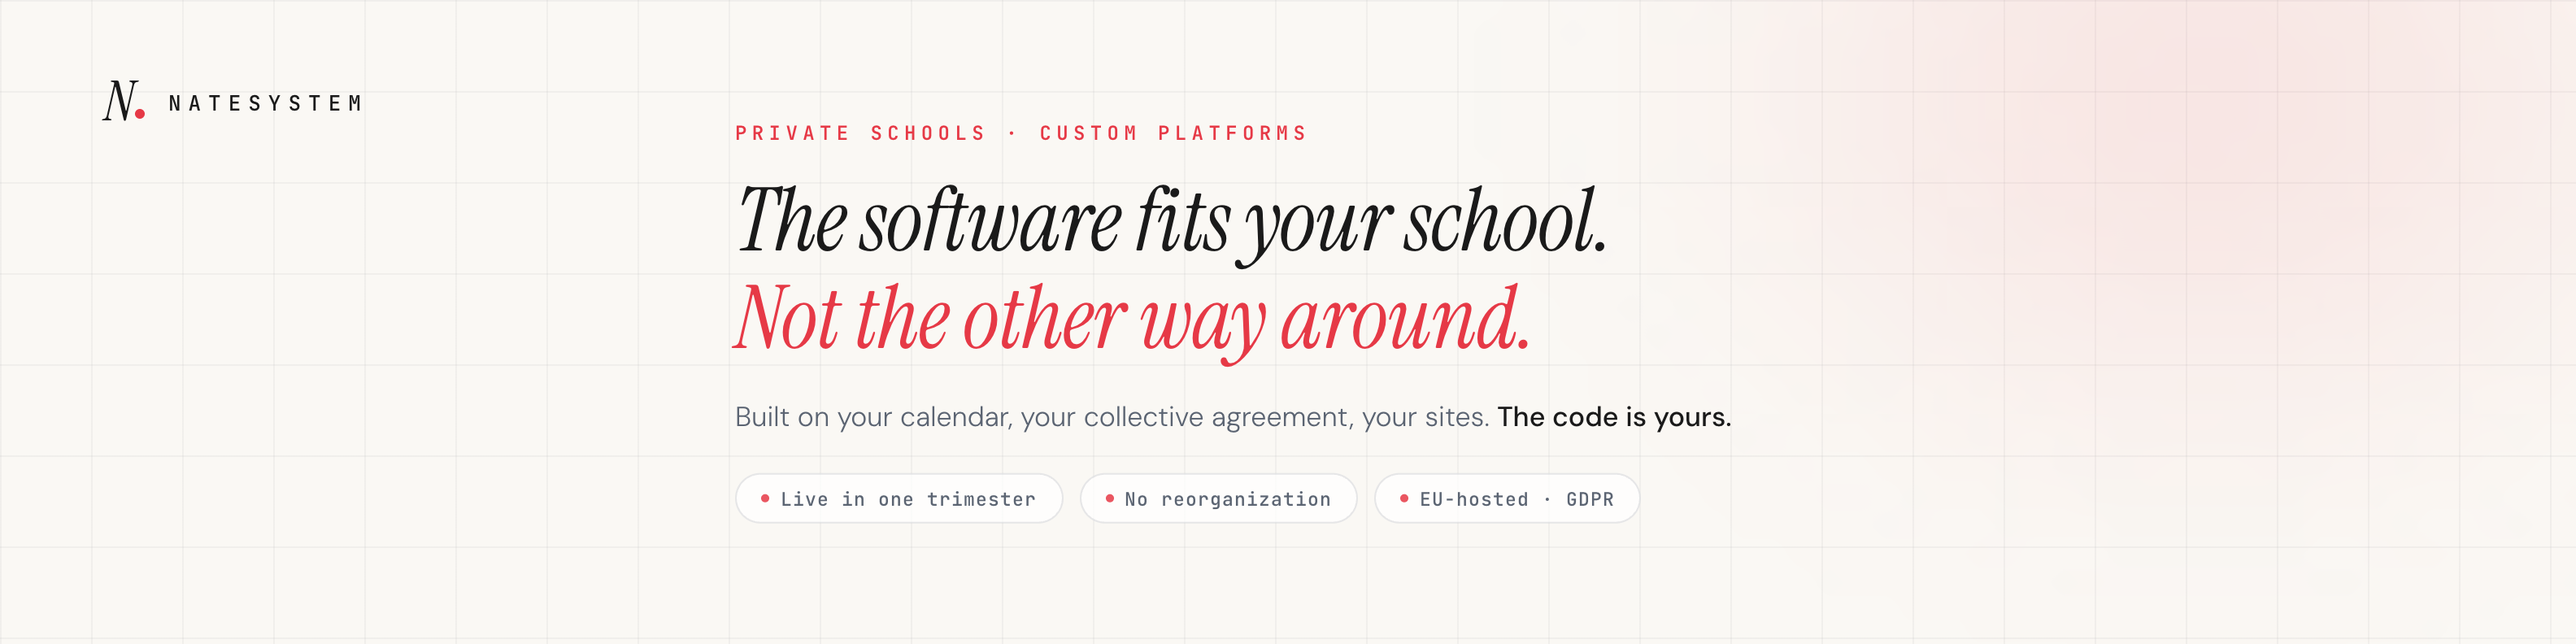
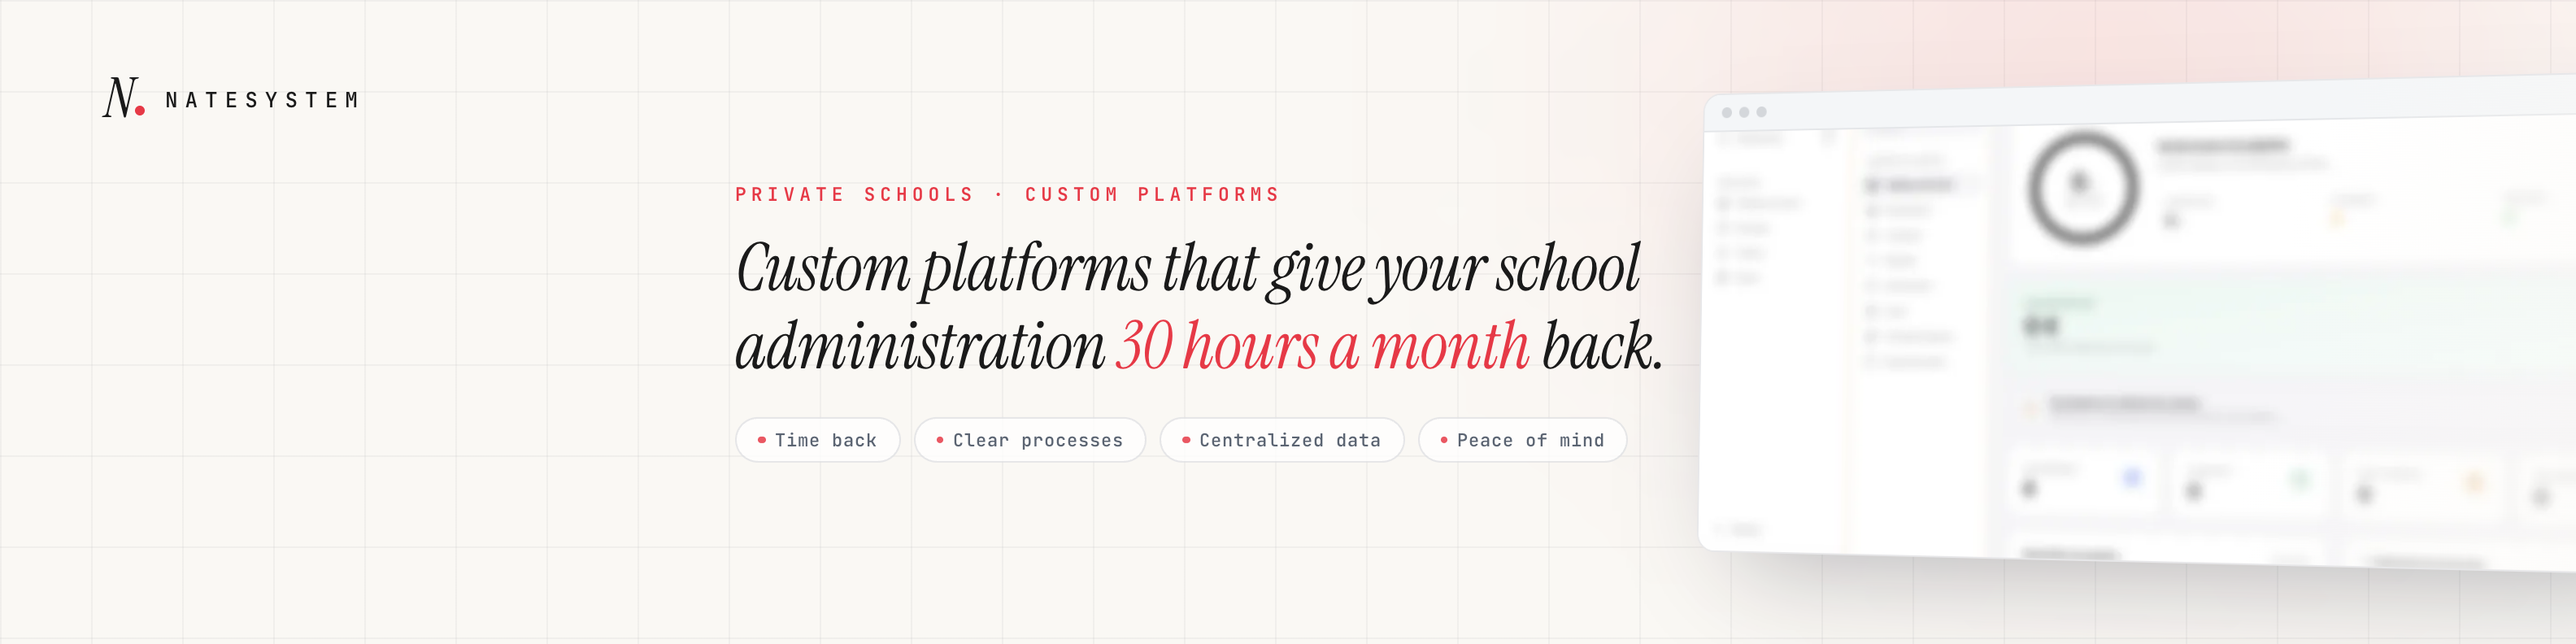
La couverture LinkedIn reprend le concept d'origine, place correctement
Meme contenu que le bandeau que Nathan avait deja : un mockup produit, la
promesse, les quatre benefices. Ce qui change, c'est la geometrie.

Le mockup passe a droite. Il etait a gauche, donc a moitie mange par la photo
de profil, et le texte centre se faisait couper sur mobile. Mesure sur le
profil : la photo couvre environ x 50 a 370 et les 130 derniers pixels de
hauteur. Le bas-gauche reste desormais vide, le texte occupe le centre, et le
coin haut-gauche, lui visible, porte la signature.

Verifie en simulant la carte LinkedIn desktop 1128 px et l'app mobile 390 px.

Anglaise uniquement : le profil est en anglais, une seule version pour qu'il
n'y ait rien a choisir au moment de partager le lien.

Le bandeau ne porte plus les logos clients ni le compte d'ecoles : Chartreux
n'est pas citable publiquement, l'autorisation de l'IUT n'est pas tracee, et
onze projets livres ne font pas onze ecoles. Le chiffre affiche est celui du
cerveau, 30 heures par mois, non attribue.

diff --git a/linkedin-banner-ecoles.html b/linkedin-banner-ecoles.html
@@ -8,20 +8,19 @@
 <link href="https://fonts.googleapis.com/css2?family=Instrument+Serif:ital@0;1&family=DM+Sans:wght@300;400;500&family=JetBrains+Mono:wght@400;500;600&display=swap" rel="stylesheet" />
 <style>
   /* ────────────────────────────────────────────────────────────────────
-     BANDEAU LINKEDIN — 1584 × 396, la taille native du profil personnel.
+     BANDEAU LINKEDIN — 1584 × 396, taille native du profil personnel.
 
-     La géométrie commande la composition, pas l'inverse :
-       · la photo de profil mord le BAS-GAUCHE du bandeau. Mesuré sur le
-         profil de Nathan : le cercle couvre environ x 50→370 et les 130
-         derniers pixels de hauteur. Tout ce qui compte reste donc à droite
-         de x = 430.
-       · LinkedIn recadre plus serré sur mobile. Le bloc de texte est calé
-         verticalement au centre, pas collé aux bords.
-       · Le coin haut-gauche, lui, reste visible : il porte la signature.
+     Même contenu que le bandeau précédent de Nathan : un mockup produit, la
+     promesse, quatre bénéfices. Ce qui change, c'est la géométrie.
 
-     C'est exactement ce qui clochait sur l'ancien bandeau : le mockup était
-     posé à gauche, donc à moitié mangé par la photo, et le texte centré se
-     faisait couper sur mobile.
+     Mesuré sur son profil : la photo couvre environ x 50→370 et les 130
+     derniers pixels de hauteur. L'ancien bandeau posait le mockup pile là,
+     donc à moitié mangé, et centrait le texte, qui se faisait couper sur
+     mobile. Ici le mockup passe à DROITE, où il est entièrement visible, le
+     texte occupe le centre, et le bas-gauche reste vide.
+
+     Le coin haut-gauche, lui, reste visible au-dessus de la photo : il porte
+     la signature.
 
      Charte : app/globals.css. Rouge #E63946, Instrument Serif italique pour
      le titre, DM Sans pour le corps, JetBrains Mono pour les étiquettes.
@@ -32,7 +31,6 @@
     --accent: #e63946;
     --text: #1a1a1a;
     --secondary: #5b6472;
-    --muted: #94a3b8;
     --grid: rgba(15, 23, 42, 0.04);
     --border: rgba(15, 23, 42, 0.10);
   }
@@ -40,23 +38,14 @@
   * { margin: 0; padding: 0; box-sizing: border-box; }
 
   body {
-    width: 1584px;
-    height: 396px;
-    overflow: hidden;
+    width: 1584px; height: 396px; overflow: hidden;
     background: var(--ivory);
     font-family: 'DM Sans', sans-serif;
     -webkit-font-smoothing: antialiased;
   }
 
-  .cover {
-    position: relative;
-    width: 1584px;
-    height: 396px;
-    background: var(--ivory);
-    overflow: hidden;
-  }
+  .cover { position: relative; width: 1584px; height: 396px; background: var(--ivory); overflow: hidden; }
 
-  /* La grille fine du site, et la nappe rouge diffuse en haut à droite. */
   .grid {
     position: absolute; inset: 0;
     background-image:
@@ -65,104 +54,83 @@
     background-size: 56px 56px;
   }
   .glow {
-    position: absolute;
-    top: -220px; right: -160px;
-    width: 780px; height: 560px;
-    background: radial-gradient(ellipse, rgba(230, 57, 70, 0.13) 0%, transparent 68%);
+    position: absolute; top: -240px; right: -120px;
+    width: 820px; height: 600px;
+    background: radial-gradient(ellipse, rgba(230, 57, 70, 0.14) 0%, transparent 68%);
     filter: blur(70px);
   }
 
-  /* Signature, en haut à gauche : la seule chose posée dans la moitié
-     gauche, et assez haute pour passer au-dessus de la photo de profil. */
-  .mark {
-    position: absolute;
-    left: 64px; top: 46px;
-    display: flex; align-items: center; gap: 2px;
-  }
+  /* Signature, en haut à gauche, au-dessus de la photo de profil. */
+  .mark { position: absolute; left: 64px; top: 44px; display: flex; align-items: center; }
   .mark-n {
-    font-family: 'Instrument Serif', Georgia, serif;
-    font-style: italic;
-    font-size: 34px;
-    color: var(--text);
-    line-height: 1;
+    font-family: 'Instrument Serif', Georgia, serif; font-style: italic;
+    font-size: 34px; color: var(--text); line-height: 1;
   }
   .mark-dot {
-    width: 6px; height: 6px; border-radius: 50%;
-    background: var(--accent);
-    margin-left: -1px; margin-top: 14px;
+    width: 6px; height: 6px; border-radius: 50%; background: var(--accent);
+    margin-left: 1px; margin-top: 14px;
   }
   .mark-word {
-    font-family: 'JetBrains Mono', monospace;
-    font-size: 13px; font-weight: 500;
-    letter-spacing: 4.5px;
-    color: var(--text);
-    margin-left: 12px;
+    font-family: 'JetBrains Mono', monospace; font-size: 13px; font-weight: 500;
+    letter-spacing: 4.5px; color: var(--text); margin-left: 12px;
   }
 
-  /* Le bloc de message : centré verticalement, calé à droite de la photo. */
-  .copy {
-    position: absolute;
-    left: 452px; right: 76px;
-    top: 50%; transform: translateY(-50%);
-  }
+  /* Le message, à droite de la photo, centré verticalement. */
+  .copy { position: absolute; left: 452px; width: 600px; top: 50%; transform: translateY(-50%); }
 
   .eyebrow {
-    font-family: 'JetBrains Mono', monospace;
-    font-size: 12px; font-weight: 600;
-    letter-spacing: 3.2px;
-    text-transform: uppercase;
-    color: var(--accent);
-    margin-bottom: 16px;
+    font-family: 'JetBrains Mono', monospace; font-size: 11.5px; font-weight: 600;
+    letter-spacing: 3px; text-transform: uppercase; color: var(--accent);
+    margin-bottom: 15px;
   }
 
   h1 {
-    font-family: 'Instrument Serif', Georgia, serif;
-    font-style: italic;
-    font-weight: 400;
-    font-size: 54px;
-    line-height: 1.12;
-    color: var(--text);
-    letter-spacing: -0.4px;
-    margin-bottom: 16px;
+    font-family: 'Instrument Serif', Georgia, serif; font-style: italic; font-weight: 400;
+    font-size: 41px; line-height: 1.16; color: var(--text);
+    letter-spacing: -0.3px; margin-bottom: 20px;
   }
   h1 .accent { color: var(--accent); }
 
-  .sub {
-    font-size: 17px;
-    font-weight: 300;
-    line-height: 1.55;
-    color: var(--secondary);
-    max-width: 780px;
-    margin-bottom: 22px;
-  }
-  .sub strong { font-weight: 500; color: var(--text); }
-
-  .chips { display: flex; gap: 10px; flex-wrap: wrap; }
+  .chips { display: flex; gap: 8px; flex-wrap: wrap; max-width: 560px; }
   .chip {
-    font-family: 'JetBrains Mono', monospace;
-    font-size: 11.5px;
-    font-weight: 500;
-    letter-spacing: 0.6px;
-    color: var(--secondary);
-    border: 1px solid var(--border);
-    border-radius: 999px;
-    padding: 7px 15px;
-    background: rgba(255, 255, 255, 0.72);
-    display: inline-flex; align-items: center; gap: 7px;
+    font-family: 'JetBrains Mono', monospace; font-size: 11px; font-weight: 500;
+    letter-spacing: 0.4px; color: var(--secondary);
+    border: 1px solid var(--border); border-radius: 999px;
+    padding: 6px 13px; background: rgba(255, 255, 255, 0.76);
+    display: inline-flex; align-items: center; gap: 6px; white-space: nowrap;
   }
-  .chip i {
-    width: 5px; height: 5px; border-radius: 50%;
-    background: var(--accent); opacity: 0.85;
-    display: inline-block;
+  .chip i { width: 4.5px; height: 4.5px; border-radius: 50%; background: var(--accent); opacity: .85; }
+
+  /* Le mockup : à droite, légèrement incliné, il déborde du cadre. */
+  .shot {
+    position: absolute;
+    right: -78px; top: 50%;
+    width: 640px; height: 296px;
+    transform: translateY(-50%) perspective(1400px) rotateY(-13deg) rotateX(2deg);
+    border-radius: 12px; overflow: hidden;
+    border: 1px solid rgba(15, 23, 42, 0.10);
+    background: #fff;
+    box-shadow: 0 30px 70px -28px rgba(15, 23, 42, 0.32);
+  }
+  .shot-bar {
+    height: 24px; background: #f4f6f8;
+    border-bottom: 1px solid rgba(15, 23, 42, 0.07);
+    display: flex; align-items: center; gap: 5px; padding-left: 12px;
+  }
+  .shot-bar i { width: 7px; height: 7px; border-radius: 50%; background: rgba(15,23,42,.14); }
+  .shot-img {
+    width: 100%; height: calc(100% - 24px);
+    background: url('public/realisations/mockups/tcrm.webp') top left / cover no-repeat;
+  }
+  /* Fondu vers l'ivoire sur le bord droit, pour que le mockup ne se coupe pas net. */
+  .shot-fade {
+    position: absolute; inset: 0;
+    background: linear-gradient(100deg, transparent 58%, rgba(250, 248, 244, 0.55) 100%);
   }
 
-  /* Zones réservées, visibles seulement avec ?debug dans l'URL. */
   body.debug .avatar-zone {
-    position: absolute;
-    left: 30px; bottom: 0;
-    width: 400px; height: 150px;
-    outline: 2px dashed rgba(230, 57, 70, 0.6);
-    background: rgba(230, 57, 70, 0.07);
+    position: absolute; left: 30px; bottom: 0; width: 400px; height: 150px;
+    outline: 2px dashed rgba(230, 57, 70, .6); background: rgba(230, 57, 70, .07);
   }
   body:not(.debug) .avatar-zone { display: none; }
 </style>
@@ -172,6 +140,12 @@
     <div class="grid"></div>
     <div class="glow"></div>
 
+    <div class="shot">
+      <div class="shot-bar"><i></i><i></i><i></i></div>
+      <div class="shot-img"></div>
+      <div class="shot-fade"></div>
+    </div>
+
     <div class="mark">
       <span class="mark-n">N</span><span class="mark-dot"></span>
       <span class="mark-word">NATESYSTEM</span>
@@ -180,17 +154,14 @@
     <div class="copy">
       <p class="eyebrow">Private schools &middot; Custom platforms</p>
       <h1>
-        The software fits your school.<br />
-        <span class="accent">Not the other way around.</span>
+        Custom platforms that give your school
+        administration <span class="accent">30 hours a month</span> back.
       </h1>
-      <p class="sub">
-        Built on your calendar, your collective agreement, your sites.
-        <strong>The code is yours.</strong>
-      </p>
       <div class="chips">
-        <span class="chip"><i></i>Live in one trimester</span>
-        <span class="chip"><i></i>No reorganization</span>
-        <span class="chip"><i></i>EU-hosted &middot; GDPR</span>
+        <span class="chip"><i></i>Time back</span>
+        <span class="chip"><i></i>Clear processes</span>
+        <span class="chip"><i></i>Centralized data</span>
+        <span class="chip"><i></i>Peace of mind</span>
       </div>
     </div>
 
